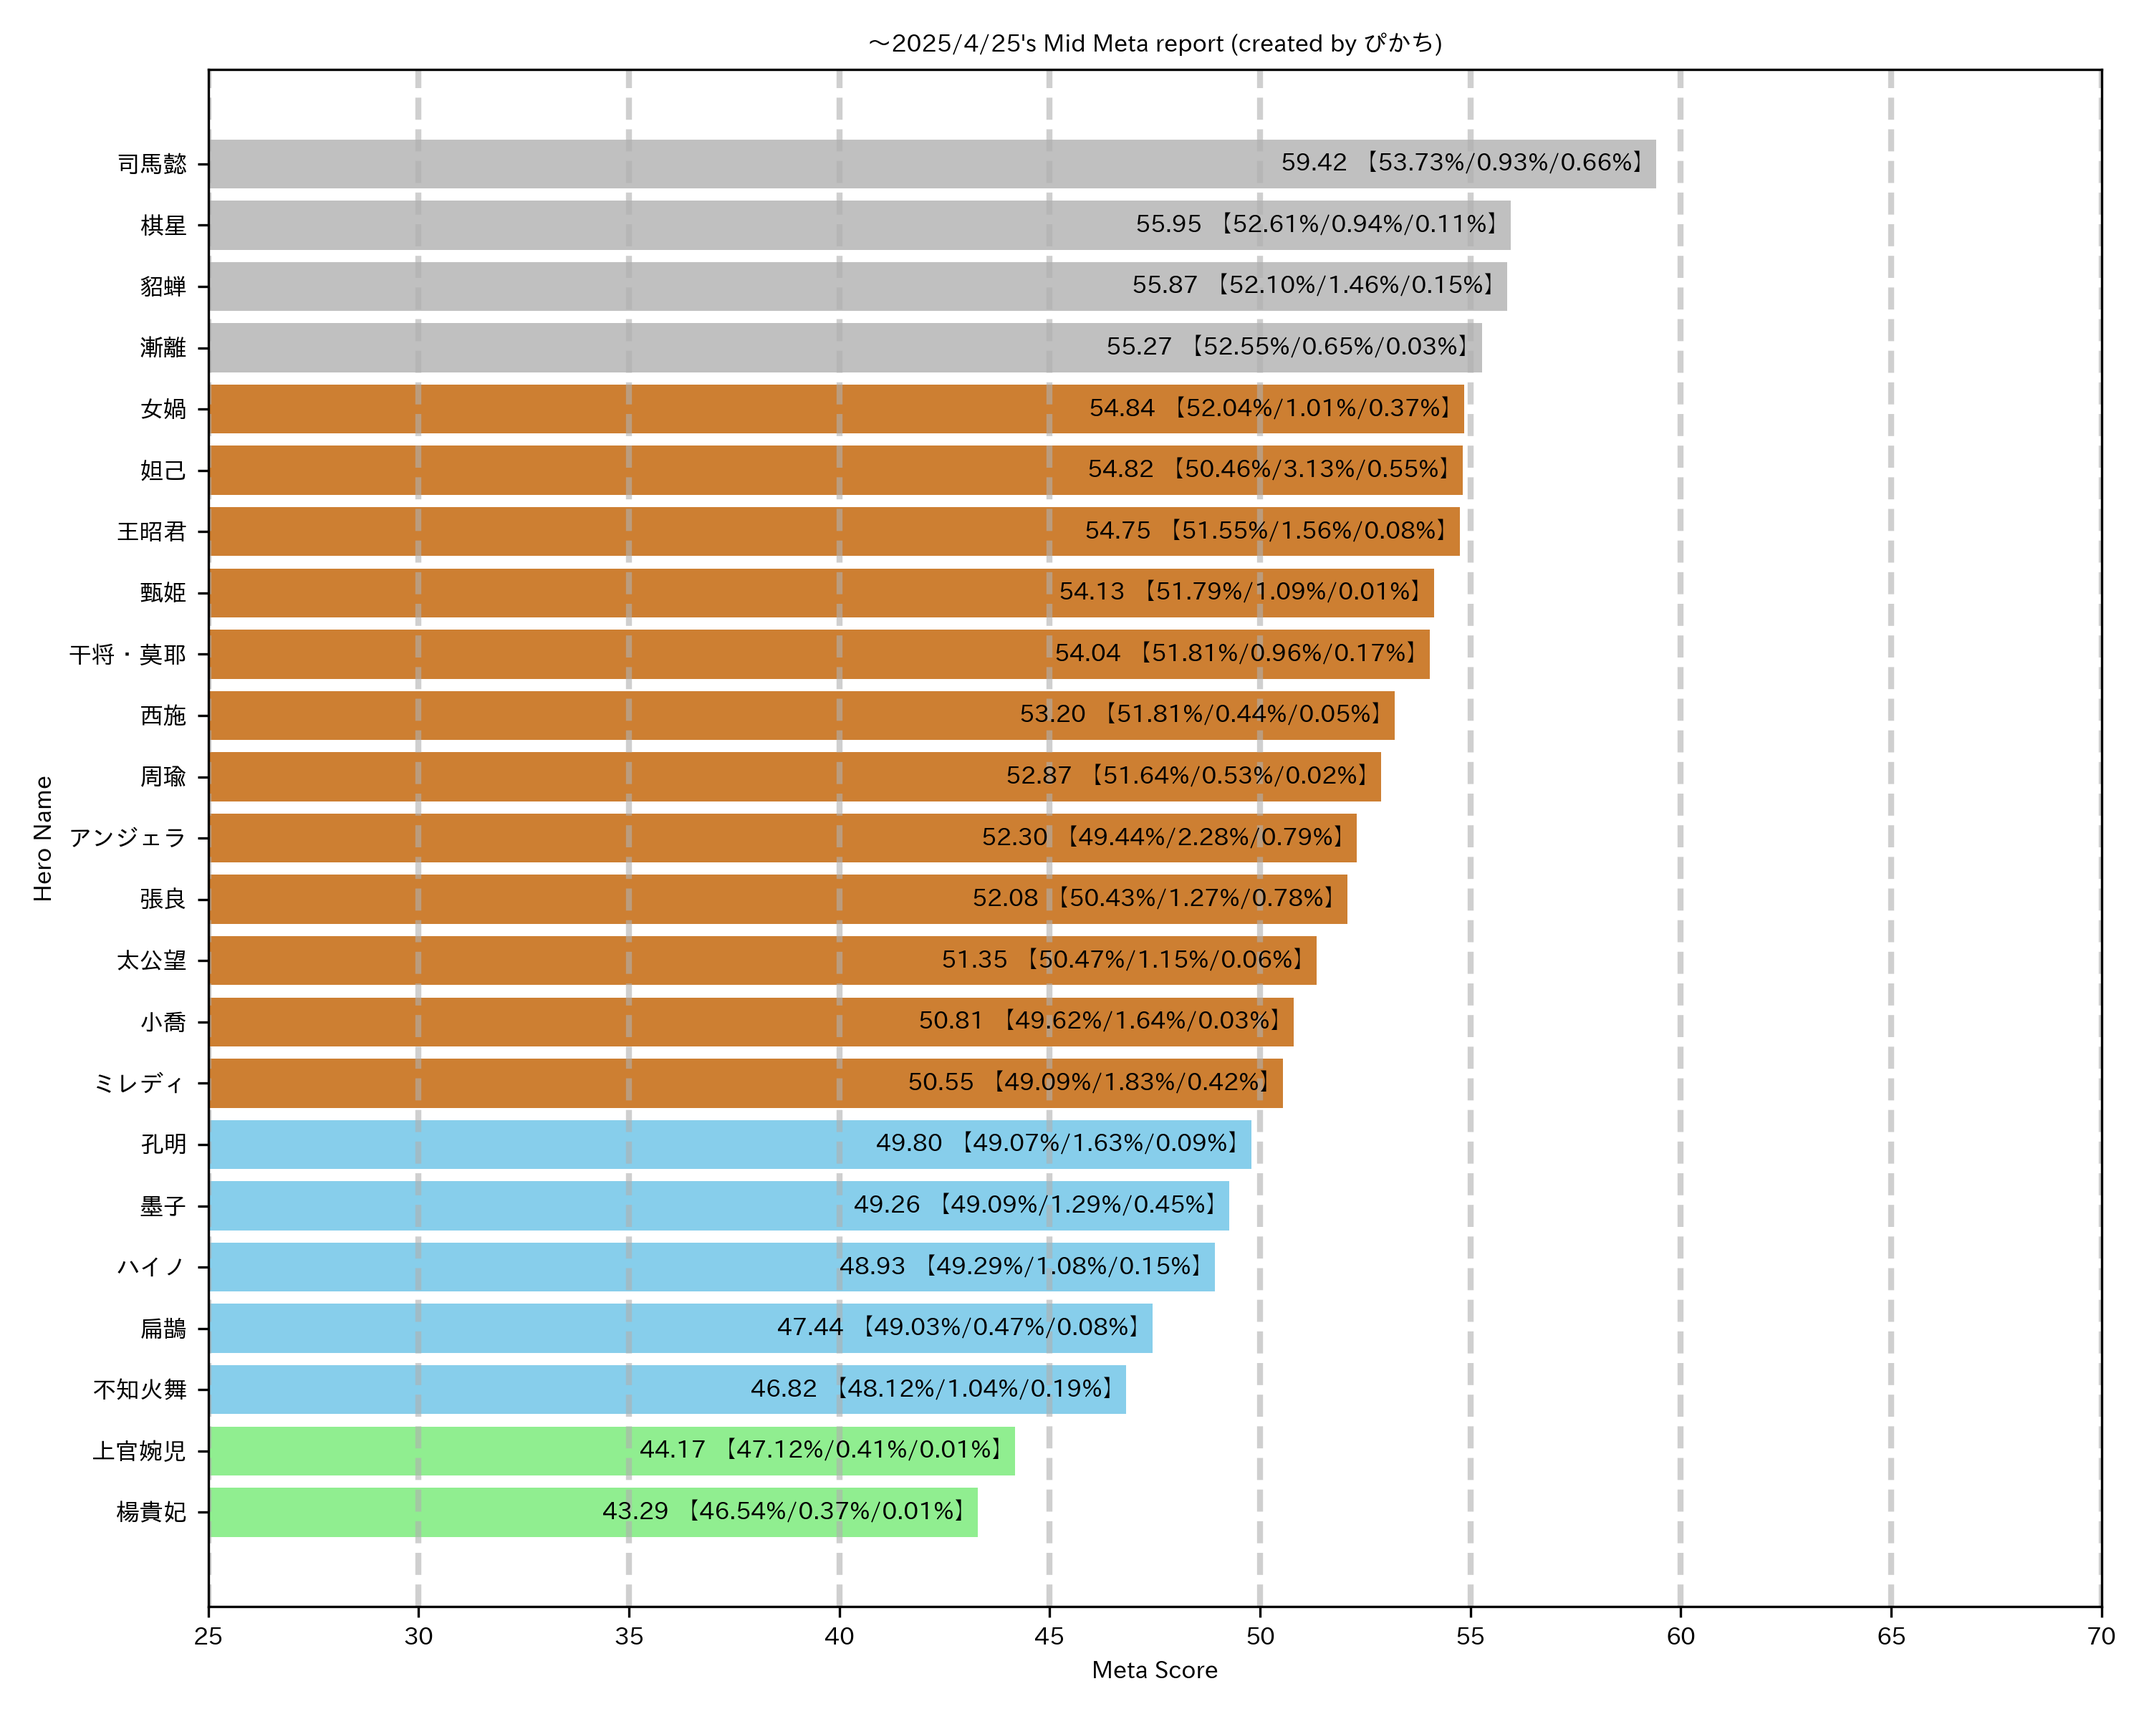
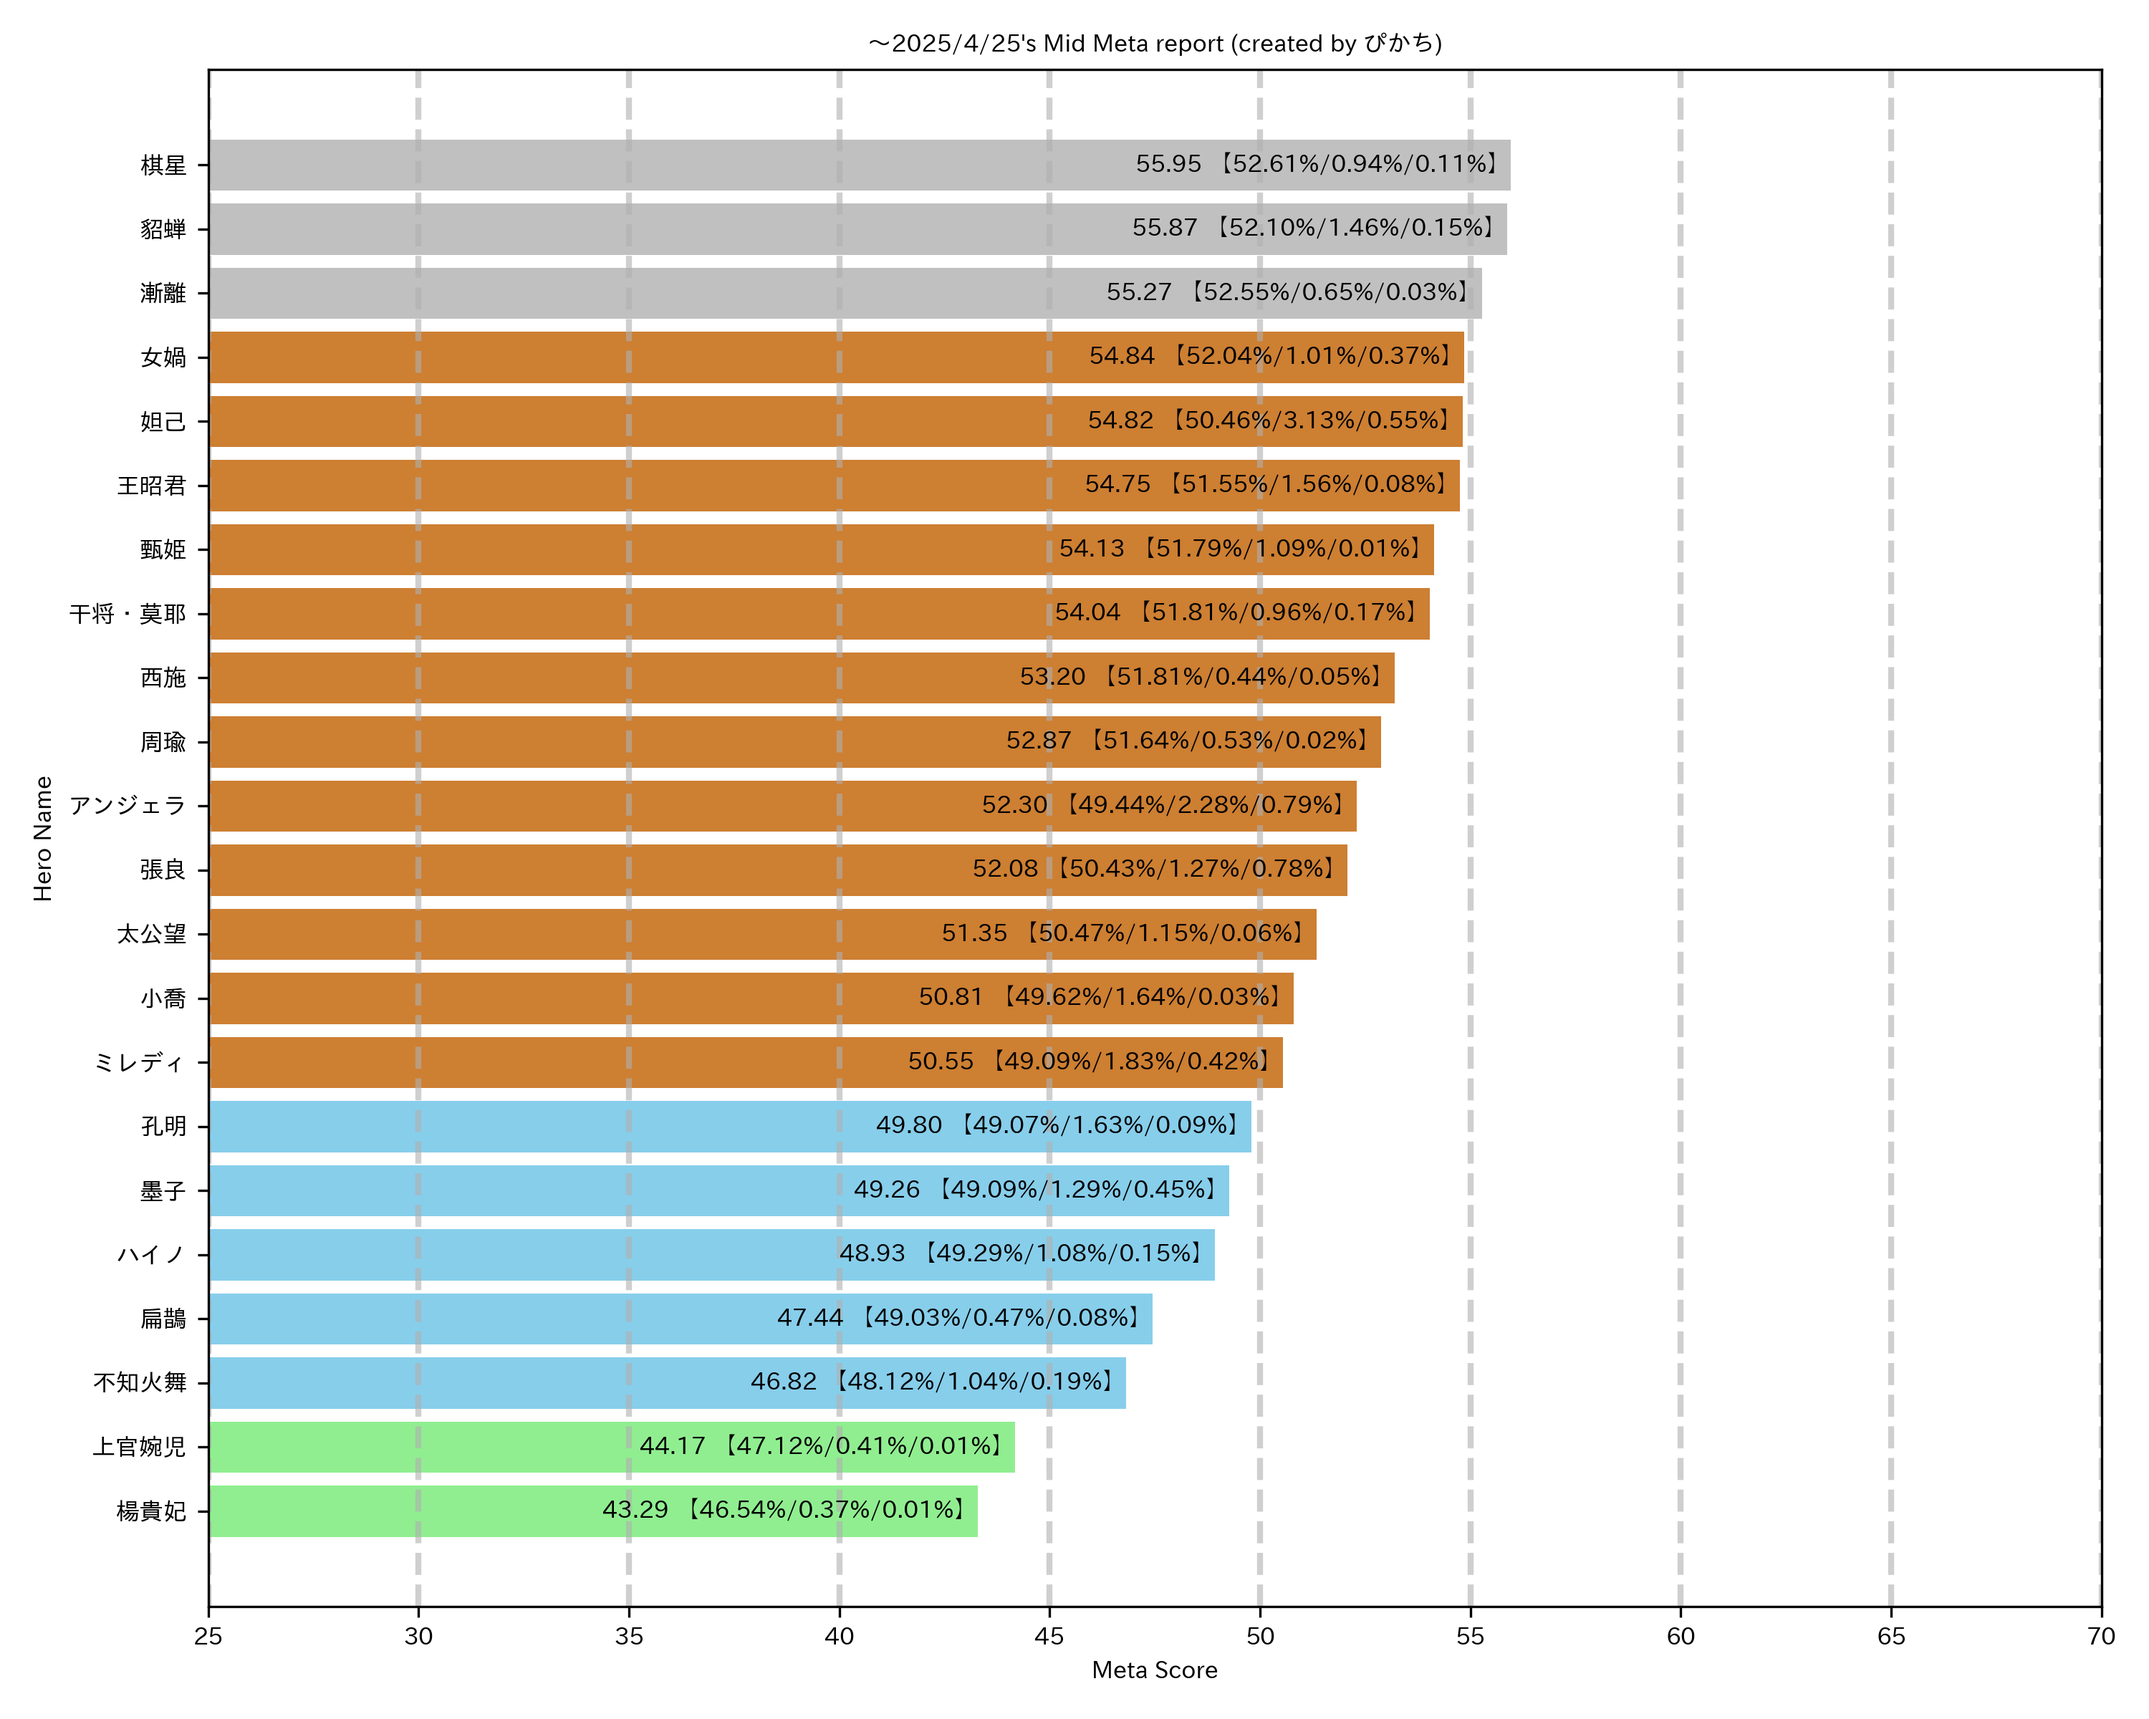
Generated HTML

Changed region(s): [[0.031, 0.0625, 0.775, 0.875], [0.062, 0.875, 0.093, 0.9062], [0.031, 0.4688, 0.062, 0.5]]

diff --git a/list_html/for_mobile/Mid_mb_table.html b/list_html/for_mobile/Mid_mb_table.html
@@ -72,22 +72,6 @@
                     
                     <tbody class="hero-block">
                         <tr class="hero-row">
-                            <td rowspan="3"><img src="../hok_pics/simayi.png" alt="司馬懿" /></td>
-                            <td class="hero-name">司馬懿</td>
-                        </tr>
-                        <tr class="hero-row">
-                            <td class="highlight">59.42(-0.68)</td>
-                        </tr>
-                        <tr class="hero-row">
-                            <td class="highlight">S → A</td>
-                        </tr>
-                        <tr class="hero-row">
-                            <td colspan="2" class="supplementary">【53.89%/1.05%/0.62%】→【53.73%/0.93%/0.66%】</td>
-                        </tr>
-                    </tbody>
-                    
-                    <tbody class="hero-block">
-                        <tr class="hero-row">
                             <td rowspan="3"><img src="../hok_pics/yixing.png" alt="棋星" /></td>
                             <td class="hero-name">棋星</td>
                         </tr>

diff --git a/list_html/for_pc/Mid_pc_table.html b/list_html/for_pc/Mid_pc_table.html
@@ -76,14 +76,6 @@
                 <tbody>
                     
                     <tr class="hero-row">
-                        <td><img src="../hok_pics/simayi.png" alt="司馬懿" /></td>
-                        <td class="hero-name">司馬懿</td>
-                        <td class="highlight">59.42(-0.68)</td>
-                        <td class="highlight">S → A</td>
-                        <td class="supplementary">【53.89%/1.05%/0.62%】→【53.73%/0.93%/0.66%】</td>
-                    </tr>
-                    
-                    <tr class="hero-row">
                         <td><img src="../hok_pics/yixing.png" alt="棋星" /></td>
                         <td class="hero-name">棋星</td>
                         <td class="highlight">55.95(+0.23)</td>
